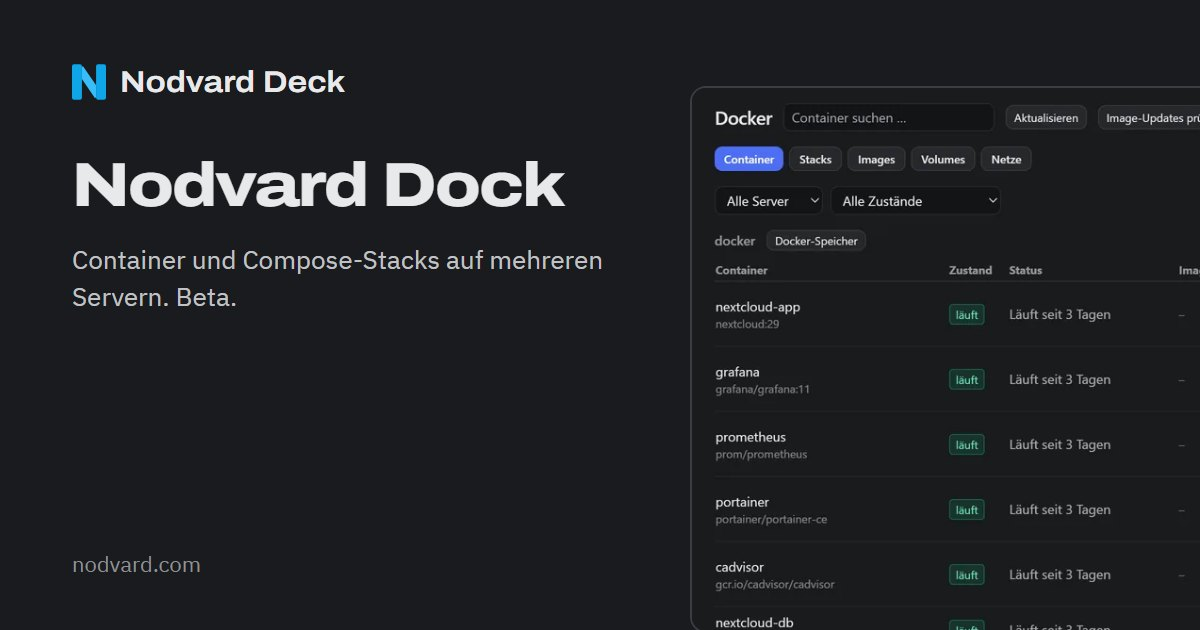
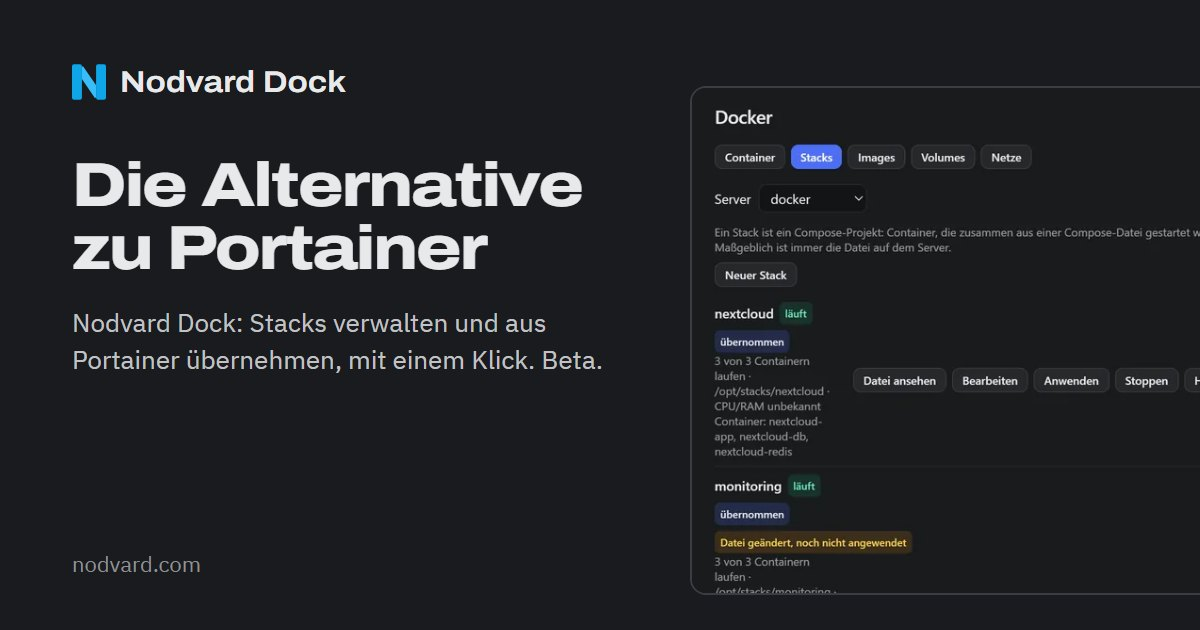
Nodvard Dock: Launch-Seite als Portainer-Alternative, alte Adresse leitet weiter

diff --git a/dock.html b/dock.html
@@ -3,25 +3,25 @@
 <head>
 <meta charset="utf-8">
 <meta name="viewport" content="width=device-width, initial-scale=1, viewport-fit=cover">
-<title>Nodvard Dock: Docker-Verwaltung mit Stacks</title>
-<meta name="description" content="Nodvard Dock ist Nodvard Deck mit nur dem Docker-Teil: Container, Stacks, Logs und Image-Updates, als eigenes, schlankes Image. Beta.">
+<title>Portainer-Alternative: Nodvard Dock für Docker-Stacks</title>
+<meta name="description" content="Nodvard Dock verwaltet Container und Compose-Stacks auf mehreren Servern. Stacks aus Portainer ziehen mit einem Klick um, die Volumes bleiben.">
 <link rel="canonical" href="https://nodvard.com/dock.html">
 <link rel="alternate" hreflang="de" href="https://nodvard.com/dock.html">
 <link rel="alternate" hreflang="en" href="https://nodvard.com/en/dock.html">
 <link rel="alternate" hreflang="x-default" href="https://nodvard.com/dock.html">
 <meta name="theme-color" content="#1a1b1e">
-<meta property="og:type" content="website">
+<meta property="og:type" content="article">
 <meta property="og:site_name" content="Nodvard Deck">
-<meta property="og:title" content="Nodvard Dock: Docker-Verwaltung mit Stacks">
-<meta property="og:description" content="Nodvard Dock ist Nodvard Deck mit nur dem Docker-Teil: Container, Stacks, Logs und Image-Updates, als eigenes, schlankes Image. Beta.">
+<meta property="og:title" content="Portainer-Alternative: Nodvard Dock für Docker-Stacks">
+<meta property="og:description" content="Nodvard Dock verwaltet Container und Compose-Stacks auf mehreren Servern. Stacks aus Portainer ziehen mit einem Klick um, die Volumes bleiben.">
 <meta property="og:url" content="https://nodvard.com/dock.html">
 <meta property="og:image" content="https://nodvard.com/assets/og/dock-de.jpg">
 <meta property="og:image:width" content="1200">
 <meta property="og:image:height" content="630">
 <meta property="og:image:alt" content="Nodvard Deck mit Beispieldaten">
 <meta name="twitter:card" content="summary_large_image">
-<meta name="twitter:title" content="Nodvard Dock: Docker-Verwaltung mit Stacks">
-<meta name="twitter:description" content="Nodvard Dock ist Nodvard Deck mit nur dem Docker-Teil: Container, Stacks, Logs und Image-Updates, als eigenes, schlankes Image. Beta.">
+<meta name="twitter:title" content="Portainer-Alternative: Nodvard Dock für Docker-Stacks">
+<meta name="twitter:description" content="Nodvard Dock verwaltet Container und Compose-Stacks auf mehreren Servern. Stacks aus Portainer ziehen mit einem Klick um, die Volumes bleiben.">
 <meta name="twitter:image" content="https://nodvard.com/assets/og/dock-de.jpg">
 <meta property="og:locale" content="de_DE">
 <link rel="icon" href="assets/favicon.svg" type="image/svg+xml">
@@ -36,19 +36,31 @@
 <header class="top">
   <div class="wrap">
     <a class="brand" href="./" aria-label="Nodvard Deck, zur Startseite"><svg viewBox="336 327 408 425" aria-hidden="true" focusable="false"><rect x="336" y="327" width="119" height="425" rx="24" fill="#0ea5e9"/><polygon points="455,352 471,352 625,577 625,727 608,727 455,502" fill="#38bdf8"/><rect x="625" y="327" width="119" height="425" rx="24" fill="#0ea5e9"/></svg><span>Nodvard Deck</span></a>
-    <nav aria-label="Hauptmenü"><ul class="nav"><li><a href="funktionen.html">Funktionen</a></li><li><a href="dock.html" aria-current="page">Dock</a></li><li><a href="loslegen.html">Loslegen</a></li><li><a href="community.html">Community</a></li></ul></nav>
+    <nav aria-label="Hauptmenü"><ul class="nav"><li><a href="funktionen.html">Funktionen</a></li><li><a href="dock.html">Dock</a></li><li><a href="loslegen.html">Loslegen</a></li><li><a href="community.html">Community</a></li></ul></nav>
     <a class="lang" href="en/dock.html" hreflang="en" lang="en" title="Read this page in English">English</a>
   </div>
 </header>
 <main id="inhalt">
 <div class="wrap">
   <header class="page-head">
-    <h1>Nodvard Dock <span class="beta">Beta</span></h1>
-    <p class="lead">Container-Verwaltung für Docker, schlicht und auf Deutsch. Für alle, die ihre Container auf ein paar Servern im Blick behalten wollen, auch für Umsteiger von Portainer CE.</p>
+    <p class="kicker"><span class="beta">Beta</span> Nodvard Dock</p>
+    <h1>Die Alternative zu Portainer für dein Homelab</h1>
+    <p class="lead">Nodvard Dock verwaltet Container und Compose-Stacks auf deinen Servern. Stacks aus Portainer übernimmst du mit einem Klick, die Volumes mit deinen Daten bleiben. Selbst gehostet und für private Nutzung kostenlos.</p>
+    <div class="btns"><a class="btn btn-main" href="#installieren">In 2 Schritten installieren</a><a class="btn btn-alt" href="https://github.com/Nodvard/Dock">Auf GitHub</a></div>
   </header>
 
-  <div class="box">
-    <p><strong>Seit Version 0.11.0 als fertiges Image (Beta).</strong> Dock ist Deck mit nur dem Modul Docker: derselbe Code, nur weniger drin.</p>
+  <div class="prose">
+    <h2>Warum gerade jetzt</h2>
+    <p>Portainer hat im September 2026 angekündigt, dass die Community Edition bei Version 2.x bleibt. Sie bekommt weiter Sicherheitsupdates und Fehlerbehebungen, aber keine neuen Funktionen mehr (<a href="https://www.heise.de/en/news/Enterprise-Shift-Portainer-Freezes-Community-Edition-11459296.html">heise online</a>). Wenn du deshalb nach einer Alternative suchst, nimmt Nodvard Dock deine Stacks mit.</p>
+  </div>
+
+  <div class="show">
+    <figure><img src="assets/img/stacks-1040.webp" srcset="assets/img/stacks-1040.webp 1040w, assets/img/stacks.webp 2080w" sizes="(min-width: 900px) 620px, 100vw" width="2080" height="1072" fetchpriority="high" alt="Der Reiter Stacks mit Beispieldaten: Compose-Projekte eines Servers, darunter ein Stack aus Portainer mit dem Knopf „Von Portainer übernehmen“."></figure>
+    <div class="show-text">
+      <h2>Umzug mit einem Klick</h2>
+      <p>Im Reiter Stacks steht bei jedem Stack, den Portainer angelegt hat, der Knopf „Von Portainer übernehmen“. Dock holt Compose-Datei und Variablen aus dem Speicher von Portainer, legt sie in einen eigenen Ordner und rollt den Stack dort unter demselben Namen neu aus. Die Volumes mit deinen Daten bleiben.</p>
+      <p>Passt etwas nicht, etwa weil die gespeicherte Datei andere Images nennt als die laufenden Container, zieht Dock nicht um und nennt den Grund.</p>
+    </div>
   </div>
 
   <div class="prose">
@@ -56,28 +68,47 @@
     <ul>
       <li><strong>Container</strong> aller Server auf einer Seite: Zustand, Starten, Stoppen, Neustarten, gestoppte Container löschen, Konsole und Details.</li>
       <li><strong>Logs</strong> mit Zeitraum, Suche und Download.</li>
-      <li><strong>Image-Updates</strong> finden und bei Compose-Diensten einspielen. Das alte Image bleibt als Sicherung. Stürzt der neue Container beim Start ab, geht es von selbst zurück, außer bei Datenbanken.</li>
-      <li><strong>Stacks</strong> sehen, übernehmen und bearbeiten, als Text oder im Formular. Neue Stacks legst du je Server in einem Ordner an, auch aus einer Vorlage.</li>
-      <li><strong>Ganze Stacks aktualisieren</strong> mit „Zurück zur vorigen Version“. Auf Wunsch sichert Dock vorher die Volumes und prüft, ob genug Platz da ist.</li>
+      <li><strong>Stacks</strong> als Text oder im Formular bearbeiten. Vor dem Speichern prüft Docker Compose die Datei auf dem Server, die letzten Stände bleiben im Verlauf. Neue Stacks legst du je Server in einem Ordner an, auch aus Vorlagen für Uptime Kuma, Vaultwarden, Nginx Proxy Manager und Gitea.</li>
+      <li><strong>Update mit Rückweg:</strong> Das alte Image bleibt als Sicherung. Startet der neue Container nicht, geht es von selbst zurück, außer bei Datenbanken. Ganze Stacks aktualisierst du mit „Zurück zur vorigen Version“.</li>
+      <li><strong>Volume-Sicherungen:</strong> Vor einem Update sichert Dock auf Wunsch die Volumes und prüft, ob genug Platz da ist. Im Reiter Stacks spielst du sie wieder zurück.</li>
+      <li><strong>Private Registries</strong> wie ghcr.io trägst du in den Einstellungen ein, das Passwort oder Token liegt im Tresor.</li>
       <li><strong>Images, Volumes und Netze</strong> auflisten und aufräumen.</li>
       <li><strong>Freigabe und Protokoll:</strong> Jede Änderung ist eine Aktion mit Risikostufe. Was ohne Rückfrage durchläuft, bestimmt der Inhaber.</li>
     </ul>
 
-    <h2>Umsteigen von Portainer</h2>
-    <p>Stacks, die Portainer angelegt hat, ziehen in einen eigenen Ordner um. Dock holt Compose-Datei und Variablen aus dem Speicher von Portainer und rollt den Stack dort unter demselben Namen neu aus. Die Volumes mit deinen Daten bleiben. Passt etwas nicht, zieht Dock nicht um und nennt den Grund.</p>
+    <h2>Mehrere Server, kein Agent</h2>
+    <p>Dock spricht per SSH mit deinen Docker-Servern, auf den Servern läuft kein eigener Agent. Wer dem Zugang keine vollen Docker-Rechte geben will, nutzt den Modus „Nur bedienen“: Dock darf dort per sudo dann nur ein festes Hilfsskript aufrufen, das jeden Aufruf selbst prüft.</p>
 
-    <h2>Neu in 0.11</h2>
-    <p>Volume-Sicherungen eines Stacks spielst du im Reiter Stacks unter „Sicherungen“ zurück. Private Registries wie ghcr.io trägst du in den Einstellungen ein, das Passwort oder Token liegt im Tresor. Für Server, deren Zugang nicht in der Gruppe docker sein soll, gibt es den Modus „Nur bedienen“.</p>
-
-    <h2>Installieren</h2>
-    <p>Du brauchst einen Rechner mit Docker und Docker Compose, etwa einen Raspberry Pi 4 oder 5 mit 64-Bit-System oder einen x86-64-Rechner.</p>
-  <div class="cmd">
-    <div class="cmd-head"><span>Im Terminal, mit Docker Compose</span><span class="sr" role="status"></span><button type="button" data-done="Kopiert" hidden data-copy="cmd-dock">Kopieren</button></div>
-    <pre><code id="cmd-dock">mkdir ~/nodvard-dock &amp;&amp; cd ~/nodvard-dock
-curl -fsSL -o compose.yml https://raw.githubusercontent.com/nodvard/deck/main/deploy/nodvard-dock/compose.yml
-docker compose up -d</code></pre>
+    <h2>Was Dock nicht kann</h2>
+    <p>Dock ist für Docker und Docker Compose auf einzelnen Servern gemacht. Docker Swarm und Kubernetes verwaltet es nicht. Die Oberfläche ist derzeit auf Deutsch. Dock ist Beta, Rückmeldungen helfen, am schnellsten auf <a href="https://discord.gg/gTTs7qMabt">Discord</a>.</p>
   </div>
-    <p>Danach öffnest du <code>http://&lt;dein-server&gt;:8080</code>. Den Einrichtungscode zeigt <code>docker compose logs nodvard-dock</code>. Mehr steht in der <a href="https://github.com/nodvard/deck/blob/main/deploy/nodvard-dock/README.md">Anleitung zu Nodvard Dock</a>.</p>
+
+  <section class="install" id="installieren" aria-labelledby="h-install">
+    <h2 id="h-install">In 2 Schritten installiert</h2>
+    <p class="intro">Du brauchst einen Rechner mit Docker und Docker Compose, etwa einen Raspberry Pi 4 oder 5 mit 64-Bit-System oder einen x86-64-Rechner.</p>
+    <ol class="steps">
+      <li><strong>Die Compose-Datei holen.</strong>
+        <div class="cmd">
+          <div class="cmd-head"><span>Im Terminal</span><span class="sr" role="status"></span><button type="button" data-done="Kopiert" hidden data-copy="cmd-dock-1">Kopieren</button></div>
+          <pre><code id="cmd-dock-1">mkdir ~/nodvard-dock &amp;&amp; cd ~/nodvard-dock
+curl -fsSL -o compose.yml https://raw.githubusercontent.com/nodvard/deck/main/deploy/nodvard-dock/compose.yml</code></pre>
+        </div>
+      </li>
+      <li><strong>Starten.</strong>
+        <div class="cmd">
+          <div class="cmd-head"><span>Im selben Ordner</span><span class="sr" role="status"></span><button type="button" data-done="Kopiert" hidden data-copy="cmd-dock-2">Kopieren</button></div>
+          <pre><code id="cmd-dock-2">docker compose up -d</code></pre>
+        </div>
+        <p>Dann <code>http://&lt;dein-server&gt;:8080</code> öffnen. Den Einrichtungscode zeigt <code>docker compose logs nodvard-dock</code>. Ist der Port belegt, leg neben die <code>compose.yml</code> eine Datei <code>.env</code> mit <code>NODVARD_DOCK_PORT=8081</code>.</p>
+      </li>
+    </ol>
+    <p class="intro">Aktualisieren: im selben Ordner <code>docker compose pull &amp;&amp; docker compose up -d</code>. Deine Daten bleiben erhalten. Alles Weitere steht im <a href="https://github.com/Nodvard/Dock">Repository Nodvard/Dock</a>.</p>
+  </section>
+
+  <div class="prose">
+    <h2>Dock oder Deck?</h2>
+    <p>Nodvard Dock ist nur die Container-Verwaltung, als eigenes, schlankes Image. <a href="index.html">Nodvard Deck</a> bringt denselben Docker-Teil mit und dazu Proxmox, Backups, Shield, Apps und Meldungen. Es ist derselbe Code, nur unterschiedlich viel drin. Mehr in den <a href="faq.html">häufigen Fragen</a>.</p>
+    <p class="note-small">Portainer ist eine Marke ihres Inhabers. Nodvard steht in keiner Verbindung dazu.</p>
   </div>
 </div>
 </main>
@@ -87,6 +118,7 @@ docker compose up -d</code></pre>
     <nav class="foot-cols" aria-label="Weitere Seiten"><div><p class="foot-h">Produkt</p><ul><li><a href="funktionen.html">Funktionen</a></li><li><a href="dock.html">Nodvard Dock</a></li><li><a href="loslegen.html">Loslegen</a></li></ul></div><div><p class="foot-h">Mitmachen</p><ul><li><a href="community.html">Community</a></li><li><a href="https://discord.gg/gTTs7qMabt">Discord</a></li><li><a href="https://github.com/nodvard/deck">GitHub</a></li></ul></div><div><p class="foot-h">Rechtliches</p><ul><li><a href="lizenz.html">Lizenz</a></li><li><a href="datenschutz.html">Datenschutz</a></li><li><a href="impressum.html">Impressum</a></li></ul></div><div><p class="foot-h">Wissen</p><ul><li><a href="homelab-dashboard.html">Homelab-Dashboard</a></li><li><a href="dock.html">Portainer-Alternative</a></li><li><a href="proxmox-docker-dashboard.html">Proxmox und Docker</a></li><li><a href="linux-virenschutz.html">Virenschutz für Linux</a></li><li><a href="faq.html">Häufige Fragen</a></li><li><a href="sicherung-nas-nfs.html">Sicherung auf ein NAS</a></li></ul></div></nav>
   </div>
 </footer>
+
 <script src="assets/copy.js" defer></script>
 </body>
 </html>

diff --git a/en/dock.html b/en/dock.html
@@ -3,25 +3,25 @@
 <head>
 <meta charset="utf-8">
 <meta name="viewport" content="width=device-width, initial-scale=1, viewport-fit=cover">
-<title>Nodvard Dock: Docker management with stacks</title>
-<meta name="description" content="Nodvard Dock is Nodvard Deck with just the Docker part: containers, stacks, logs and image updates, as its own lean image. Beta.">
+<title>Portainer alternative: Nodvard Dock for Docker stacks</title>
+<meta name="description" content="Nodvard Dock manages containers and Compose stacks on several servers. Stacks from Portainer move over with one click, your volumes stay.">
 <link rel="canonical" href="https://nodvard.com/en/dock.html">
 <link rel="alternate" hreflang="de" href="https://nodvard.com/dock.html">
 <link rel="alternate" hreflang="en" href="https://nodvard.com/en/dock.html">
 <link rel="alternate" hreflang="x-default" href="https://nodvard.com/dock.html">
 <meta name="theme-color" content="#1a1b1e">
-<meta property="og:type" content="website">
+<meta property="og:type" content="article">
 <meta property="og:site_name" content="Nodvard Deck">
-<meta property="og:title" content="Nodvard Dock: Docker management with stacks">
-<meta property="og:description" content="Nodvard Dock is Nodvard Deck with just the Docker part: containers, stacks, logs and image updates, as its own lean image. Beta.">
+<meta property="og:title" content="Portainer alternative: Nodvard Dock for Docker stacks">
+<meta property="og:description" content="Nodvard Dock manages containers and Compose stacks on several servers. Stacks from Portainer move over with one click, your volumes stay.">
 <meta property="og:url" content="https://nodvard.com/en/dock.html">
 <meta property="og:image" content="https://nodvard.com/assets/og/dock-en.jpg">
 <meta property="og:image:width" content="1200">
 <meta property="og:image:height" content="630">
 <meta property="og:image:alt" content="Nodvard Deck with sample data">
 <meta name="twitter:card" content="summary_large_image">
-<meta name="twitter:title" content="Nodvard Dock: Docker management with stacks">
-<meta name="twitter:description" content="Nodvard Dock is Nodvard Deck with just the Docker part: containers, stacks, logs and image updates, as its own lean image. Beta.">
+<meta name="twitter:title" content="Portainer alternative: Nodvard Dock for Docker stacks">
+<meta name="twitter:description" content="Nodvard Dock manages containers and Compose stacks on several servers. Stacks from Portainer move over with one click, your volumes stay.">
 <meta name="twitter:image" content="https://nodvard.com/assets/og/dock-en.jpg">
 <meta property="og:locale" content="en_US">
 <link rel="icon" href="../assets/favicon.svg" type="image/svg+xml">
@@ -36,19 +36,31 @@
 <header class="top">
   <div class="wrap">
     <a class="brand" href="./" aria-label="Nodvard Deck, home page"><svg viewBox="336 327 408 425" aria-hidden="true" focusable="false"><rect x="336" y="327" width="119" height="425" rx="24" fill="#0ea5e9"/><polygon points="455,352 471,352 625,577 625,727 608,727 455,502" fill="#38bdf8"/><rect x="625" y="327" width="119" height="425" rx="24" fill="#0ea5e9"/></svg><span>Nodvard Deck</span></a>
-    <nav aria-label="Main menu"><ul class="nav"><li><a href="features.html">Features</a></li><li><a href="dock.html" aria-current="page">Dock</a></li><li><a href="get-started.html">Get started</a></li><li><a href="community.html">Community</a></li></ul></nav>
+    <nav aria-label="Main menu"><ul class="nav"><li><a href="features.html">Features</a></li><li><a href="dock.html">Dock</a></li><li><a href="get-started.html">Get started</a></li><li><a href="community.html">Community</a></li></ul></nav>
     <a class="lang" href="../dock.html" hreflang="de" lang="de" title="Diese Seite auf Deutsch lesen">Deutsch</a>
   </div>
 </header>
 <main id="inhalt">
 <div class="wrap">
   <header class="page-head">
-    <h1>Nodvard Dock <span class="beta">Beta</span></h1>
-    <p class="lead">Container management for Docker, plain and simple. For anyone who wants to keep an eye on the containers on a few servers, including people moving away from Portainer CE.</p>
+    <p class="kicker"><span class="beta">Beta</span> Nodvard Dock</p>
+    <h1>The Portainer alternative for your homelab</h1>
+    <p class="lead">Nodvard Dock manages containers and Compose stacks on your servers. You move stacks over from Portainer with one click, and the volumes with your data stay. Self-hosted and free for personal use.</p>
+    <div class="btns"><a class="btn btn-main" href="#install">Install in 2 steps</a><a class="btn btn-alt" href="https://github.com/Nodvard/Dock">On GitHub</a></div>
   </header>
 
-  <div class="box">
-    <p><strong>Available as a ready-made image since version 0.11.0 (beta).</strong> Dock is Deck with only the Docker module: the same code, just less of it. The interface is in German for now.</p>
+  <div class="prose">
+    <h2>Why now</h2>
+    <p>In September 2026, Portainer announced that the Community Edition stays on version 2.x. It keeps getting security updates and bug fixes, but no new features (<a href="https://www.heise.de/en/news/Enterprise-Shift-Portainer-Freezes-Community-Edition-11459296.html">heise online</a>). If that has you looking for an alternative, Nodvard Dock takes your stacks along.</p>
+  </div>
+
+  <div class="show">
+    <figure><img src="../assets/img/stacks-1040.webp" srcset="../assets/img/stacks-1040.webp 1040w, ../assets/img/stacks.webp 2080w" sizes="(min-width: 900px) 620px, 100vw" width="2080" height="1072" fetchpriority="high" alt="The Stacks tab with sample data: Compose projects of one server, including a stack from Portainer with the button to move it over."></figure>
+    <div class="show-text">
+      <h2>Move over with one click</h2>
+      <p>In the Stacks tab, every stack created by Portainer has a button to move it over. Dock takes the Compose file and variables from Portainer’s storage, puts them in a folder of their own and deploys the stack there again under the same name. The volumes with your data stay.</p>
+      <p>If something does not fit, for example because the stored file names other images than the running containers, Dock does not move the stack and tells you why.</p>
+    </div>
   </div>
 
   <div class="prose">
@@ -56,28 +68,47 @@
     <ul>
       <li><strong>Containers</strong> of all servers on one page: status, start, stop, restart, delete stopped containers, console and details.</li>
       <li><strong>Logs</strong> with a time range, search and download.</li>
-      <li><strong>Image updates</strong>: find them and apply them to Compose services. The old image stays as a backup. If the new container crashes on start, it goes back on its own, except for databases.</li>
-      <li><strong>Stacks</strong>: view, adopt and edit them, as text or in a form. You create new stacks in a folder on each server, also from a template.</li>
-      <li><strong>Update whole stacks</strong> with “back to the previous version”. If you like, Dock backs up the volumes first and checks that there is enough space.</li>
+      <li><strong>Stacks</strong>: edit them as text or in a form. Before saving, Docker Compose checks the file on the server, and recent versions stay in the history. You create new stacks in a folder on each server, also from templates for Uptime Kuma, Vaultwarden, Nginx Proxy Manager and Gitea.</li>
+      <li><strong>Updates with a way back:</strong> the old image stays as a backup. If the new container does not start, it goes back on its own, except for databases. Whole stacks get “back to the previous version”.</li>
+      <li><strong>Volume backups:</strong> before an update, Dock backs up the volumes if you like and checks that there is enough space. You restore them in the Stacks tab.</li>
+      <li><strong>Private registries</strong> such as ghcr.io go into the settings, and the password or token is stored in the vault.</li>
       <li><strong>Images, volumes and networks</strong>: list and clean them up.</li>
-      <li><strong>Approval and log</strong>: every change is an action with a risk level. The owner decides what runs without asking.</li>
+      <li><strong>Approval and log:</strong> every change is an action with a risk level. The owner decides what runs without asking.</li>
     </ul>
 
-    <h2>Moving from Portainer</h2>
-    <p>Stacks created by Portainer move into a folder of their own. Dock takes the Compose file and variables from Portainer’s storage and deploys the stack there again under the same name. The volumes with your data stay. If something does not fit, Dock does not move the stack and tells you why.</p>
+    <h2>Several servers, no agent</h2>
+    <p>Dock talks to your Docker servers over SSH, and no agent of its own runs on them. If you don’t want to give the account full Docker rights, use the “operate only” mode: Dock may then only call one fixed helper script via sudo, and that script checks every call itself.</p>
 
-    <h2>New in 0.11</h2>
-    <p>You restore a stack’s volume backups in the Stacks tab under backups. You add private registries such as ghcr.io in the settings, and the password or token is stored in the vault. For servers whose account should not be in the docker group, there is the “operate only” mode.</p>
-
-    <h2>Install</h2>
-    <p>You need a machine with Docker and Docker Compose, for example a Raspberry Pi 4 or 5 with a 64-bit system or an x86-64 machine.</p>
-  <div class="cmd">
-    <div class="cmd-head"><span>In a terminal, with Docker Compose</span><span class="sr" role="status"></span><button type="button" data-done="Copied" hidden data-copy="cmd-dock">Copy</button></div>
-    <pre><code id="cmd-dock">mkdir ~/nodvard-dock &amp;&amp; cd ~/nodvard-dock
-curl -fsSL -o compose.yml https://raw.githubusercontent.com/nodvard/deck/main/deploy/nodvard-dock/compose.yml
-docker compose up -d</code></pre>
+    <h2>What Dock does not do</h2>
+    <p>Dock is made for Docker and Docker Compose on individual servers. It does not manage Docker Swarm or Kubernetes. The interface is in German for now. Dock is in beta, and feedback helps, Discord is the quickest way: <a href="https://discord.gg/gTTs7qMabt">discord.gg/gTTs7qMabt</a>.</p>
   </div>
-    <p>Then open <code>http://&lt;your-server&gt;:8080</code>. <code>docker compose logs nodvard-dock</code> shows the setup code. There is more in the <a href="https://github.com/nodvard/deck/blob/main/deploy/nodvard-dock/README.md#english">Nodvard Dock guide</a>.</p>
+
+  <section class="install" id="install" aria-labelledby="h-install">
+    <h2 id="h-install">Installed in 2 steps</h2>
+    <p class="intro">You need a machine with Docker and Docker Compose, for example a Raspberry Pi 4 or 5 with a 64-bit system or an x86-64 machine.</p>
+    <ol class="steps">
+      <li><strong>Get the Compose file.</strong>
+        <div class="cmd">
+          <div class="cmd-head"><span>In a terminal</span><span class="sr" role="status"></span><button type="button" data-done="Copied" hidden data-copy="cmd-dock-1">Copy</button></div>
+          <pre><code id="cmd-dock-1">mkdir ~/nodvard-dock &amp;&amp; cd ~/nodvard-dock
+curl -fsSL -o compose.yml https://raw.githubusercontent.com/nodvard/deck/main/deploy/nodvard-dock/compose.yml</code></pre>
+        </div>
+      </li>
+      <li><strong>Start it.</strong>
+        <div class="cmd">
+          <div class="cmd-head"><span>In the same folder</span><span class="sr" role="status"></span><button type="button" data-done="Copied" hidden data-copy="cmd-dock-2">Copy</button></div>
+          <pre><code id="cmd-dock-2">docker compose up -d</code></pre>
+        </div>
+        <p>Then open <code>http://&lt;your-server&gt;:8080</code>. <code>docker compose logs nodvard-dock</code> shows the setup code. If the port is taken, put a file <code>.env</code> next to <code>compose.yml</code> with <code>NODVARD_DOCK_PORT=8081</code>.</p>
+      </li>
+    </ol>
+    <p class="intro">Updating: in the same folder, run <code>docker compose pull &amp;&amp; docker compose up -d</code>. Your data is kept. Everything else is in the <a href="https://github.com/Nodvard/Dock">Nodvard/Dock repository</a>.</p>
+  </section>
+
+  <div class="prose">
+    <h2>Dock or Deck?</h2>
+    <p>Nodvard Dock is just the container manager, as its own lean image. <a href="index.html">Nodvard Deck</a> includes the same Docker part plus Proxmox, backups, Shield, apps and notifications. It is the same code, with more or less of it included. More in the <a href="faq.html">FAQ</a>.</p>
+    <p class="note-small">Portainer is a trademark of its owner. Nodvard is not affiliated with it.</p>
   </div>
 </div>
 </main>
@@ -87,6 +118,7 @@ docker compose up -d</code></pre>
     <nav class="foot-cols" aria-label="More pages"><div><p class="foot-h">Product</p><ul><li><a href="features.html">Features</a></li><li><a href="dock.html">Nodvard Dock</a></li><li><a href="get-started.html">Get started</a></li></ul></div><div><p class="foot-h">Get involved</p><ul><li><a href="community.html">Community</a></li><li><a href="https://discord.gg/gTTs7qMabt">Discord</a></li><li><a href="https://github.com/nodvard/deck">GitHub</a></li></ul></div><div><p class="foot-h">Legal</p><ul><li><a href="license.html">License</a></li><li><a href="privacy.html">Privacy</a></li><li><a href="imprint.html">Imprint</a></li></ul></div><div><p class="foot-h">Learn</p><ul><li><a href="homelab-dashboard.html">Homelab dashboard</a></li><li><a href="dock.html">Portainer alternative</a></li><li><a href="proxmox-docker-dashboard.html">Proxmox and Docker</a></li><li><a href="linux-antivirus.html">Linux antivirus</a></li><li><a href="faq.html">FAQ</a></li><li><a href="backup-nas-nfs.html">Backup to a NAS</a></li></ul></div></nav>
   </div>
 </footer>
+
 <script src="../assets/copy.js" defer></script>
 </body>
 </html>

diff --git a/assets/site.css b/assets/site.css
@@ -266,3 +266,11 @@ figure.wide + .prose { padding-top: 24px; }
 .foot-cols { grid-template-columns: repeat(4, auto); }
 @media (max-width: 1000px) { .foot .wrap { grid-template-columns: minmax(0, 1fr); } }
 @media (max-width: 760px) { .foot-cols { grid-template-columns: repeat(2, minmax(0, 1fr)); } }
+
+/* Launch-Seite Nodvard Dock */
+.kicker { display: flex; align-items: center; gap: 10px; margin-bottom: 14px; font-family: var(--display); font-stretch: 112%; font-weight: 650; color: var(--soft); }
+.kicker .beta { margin-left: 0; }
+.install { margin-top: 64px; padding: 32px; border: 1px solid var(--line-strong); border-radius: var(--radius-lg); background: var(--side); }
+.install h2 { font-size: clamp(1.5rem, 1.2rem + 1vw, 2rem); line-height: 1.12; font-weight: 750; font-stretch: 118%; }
+.install .intro { margin-top: 12px; color: var(--soft); max-width: 44em; }
+@media (max-width: 700px) { .install { padding: 22px 16px; } }

diff --git a/portainer-alternative.html b/portainer-alternative.html
@@ -1,0 +1,13 @@
+<!doctype html>
+<html lang="de">
+<head>
+<meta charset="utf-8">
+<title>Nodvard Dock</title>
+<meta name="robots" content="noindex, follow">
+<link rel="canonical" href="https://nodvard.com/dock.html">
+<meta http-equiv="refresh" content="0; url=dock.html">
+</head>
+<body>
+<p>Diese Seite ist umgezogen: <a href="dock.html">Nodvard Dock</a></p>
+</body>
+</html>

diff --git a/en/portainer-alternative.html b/en/portainer-alternative.html
@@ -1,0 +1,13 @@
+<!doctype html>
+<html lang="en">
+<head>
+<meta charset="utf-8">
+<title>Nodvard Dock</title>
+<meta name="robots" content="noindex, follow">
+<link rel="canonical" href="https://nodvard.com/en/dock.html">
+<meta http-equiv="refresh" content="0; url=dock.html">
+</head>
+<body>
+<p>This page has moved: <a href="dock.html">Nodvard Dock</a></p>
+</body>
+</html>
